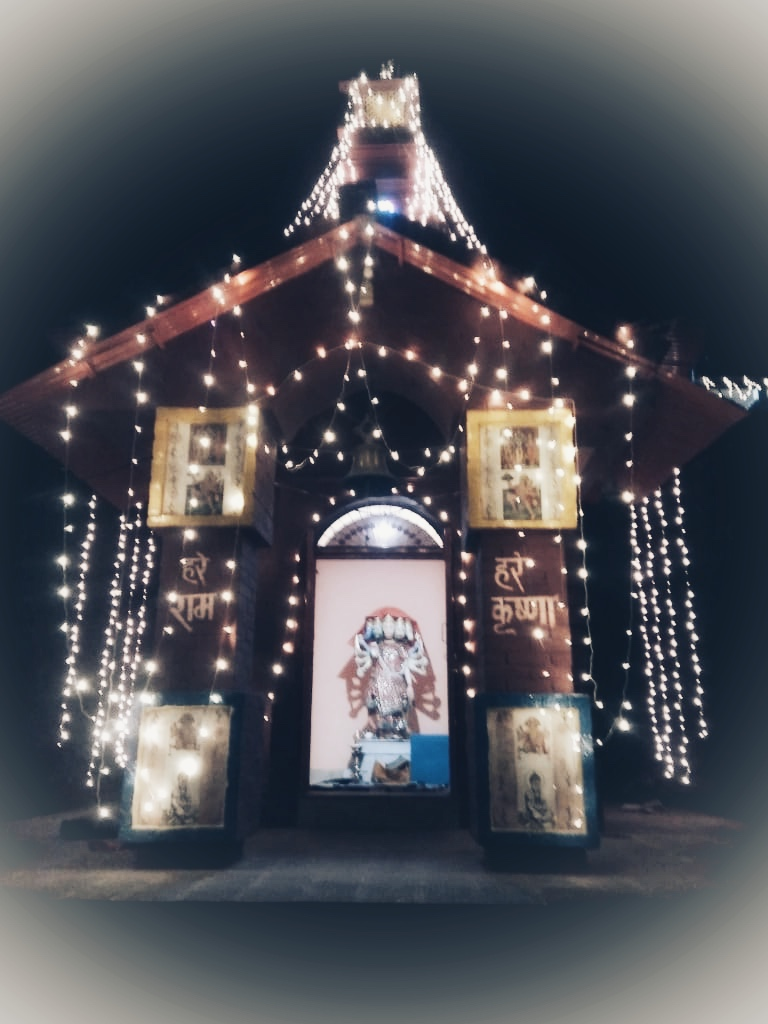
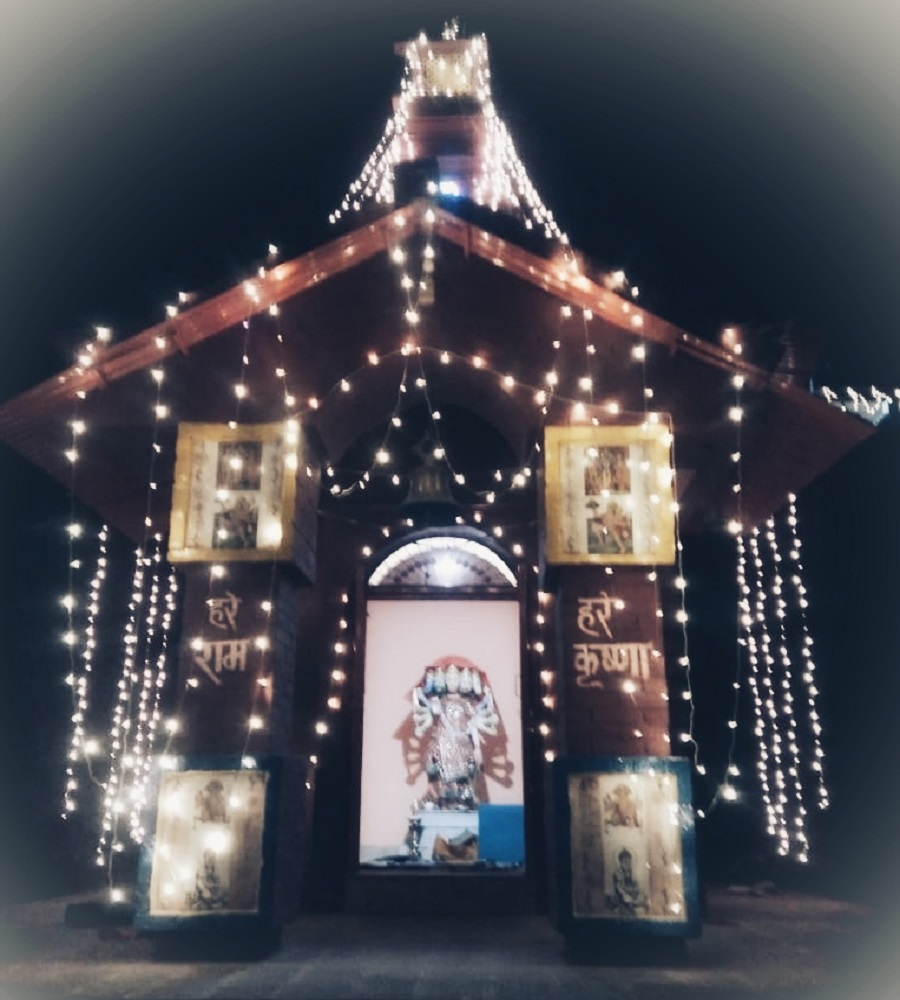
fix donation page images

diff --git a/src/Pages/donations/donations.css b/src/Pages/donations/donations.css
@@ -44,9 +44,11 @@
 }
 
 .donations-image {
-  width: 100%;
-  height: 500px;
+  width: 400px;
+  max-width: 100%;
+  height: 400px;
   background-size: cover;
+  background-position: center;
   box-shadow: 0 0px 0px rgb(0 0 0 / 30%), 0 5px 10px rgb(0 0 0 / 22%);
 }
 /***** overriding react-slick slider styles *****/
@@ -80,6 +82,14 @@
   color: #cd6727;
 }
 
+@media screen and (min-width: 45em) {
+  .donations-image {
+    margin-top: 10px;
+    width: 500px;
+    height: 500px;
+  }
+}
+
 @media screen and (min-width: 60em) {
   .donations-container {
     background-image: none;
@@ -103,7 +113,6 @@
 
   .donations-image {
     width: 500px;
-    /* height: 300px; */
     height: 500px;
     background-size: cover;
     box-shadow: 0 0px 0px rgb(0 0 0 / 30%), 0 5px 10px rgb(0 0 0 / 22%);

diff --git a/src/Pages/contactUs/contactus.css b/src/Pages/contactUs/contactus.css
@@ -1,11 +1,17 @@
 .contact-page-container{
   width: 100%;
   padding: 50px 0;
-  
+  background-image: linear-gradient(to bottom, #fef9d7 0%, #fdfcfc 100%);
 }
 
 .contact-us-form {
-  width: 50%;
+  width: 100%;
   padding: 50px 0;
-  background-image: linear-gradient(to bottom, #fef9d7 0%, #fdfcfc 100%);
+  
+}
+
+@media screen and (min-width: 60em) {
+  .contact-us-form {
+    width: 50%;
+  }
 }

diff --git a/src/App.css b/src/App.css
@@ -163,10 +163,7 @@
 }
 
 .primary-image-conatiner img {
-  /* width: fill-available; */
   width: -webkit-fill-available;
-  /* height: fill-available;
-  height: -webkit-fill-available; */
 }
 
 .primary-text-conatiner {
